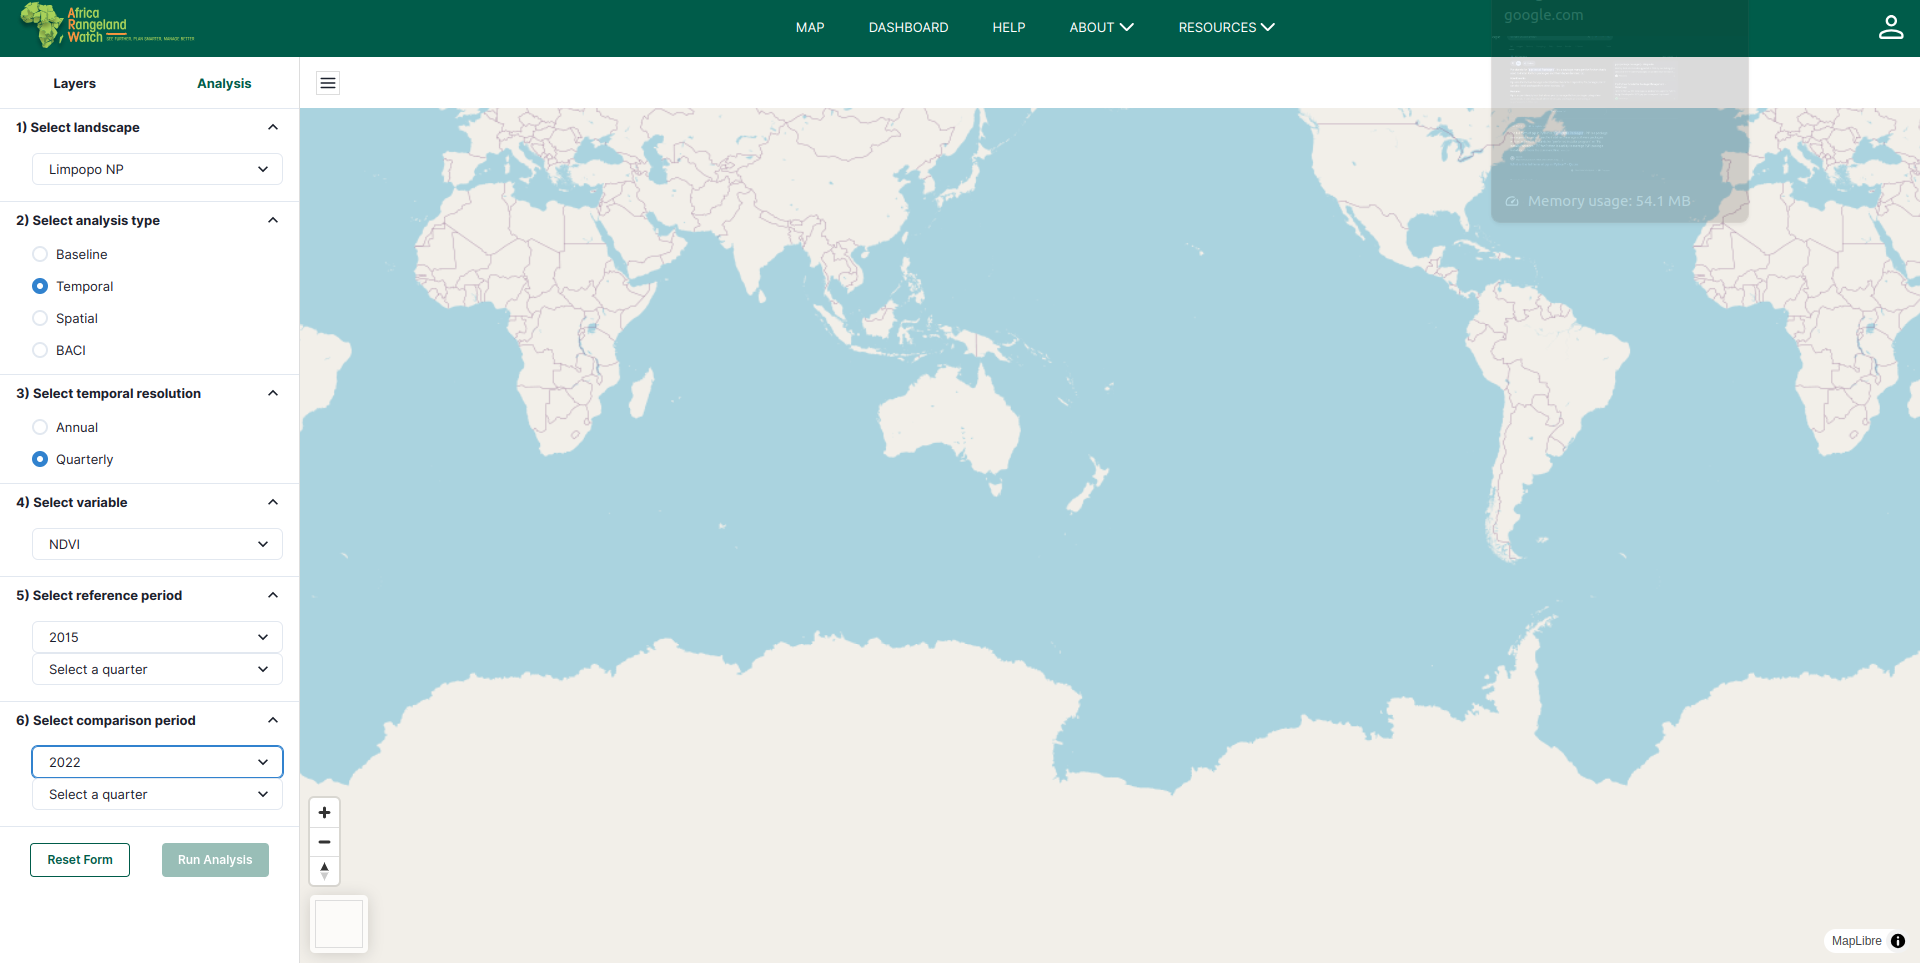
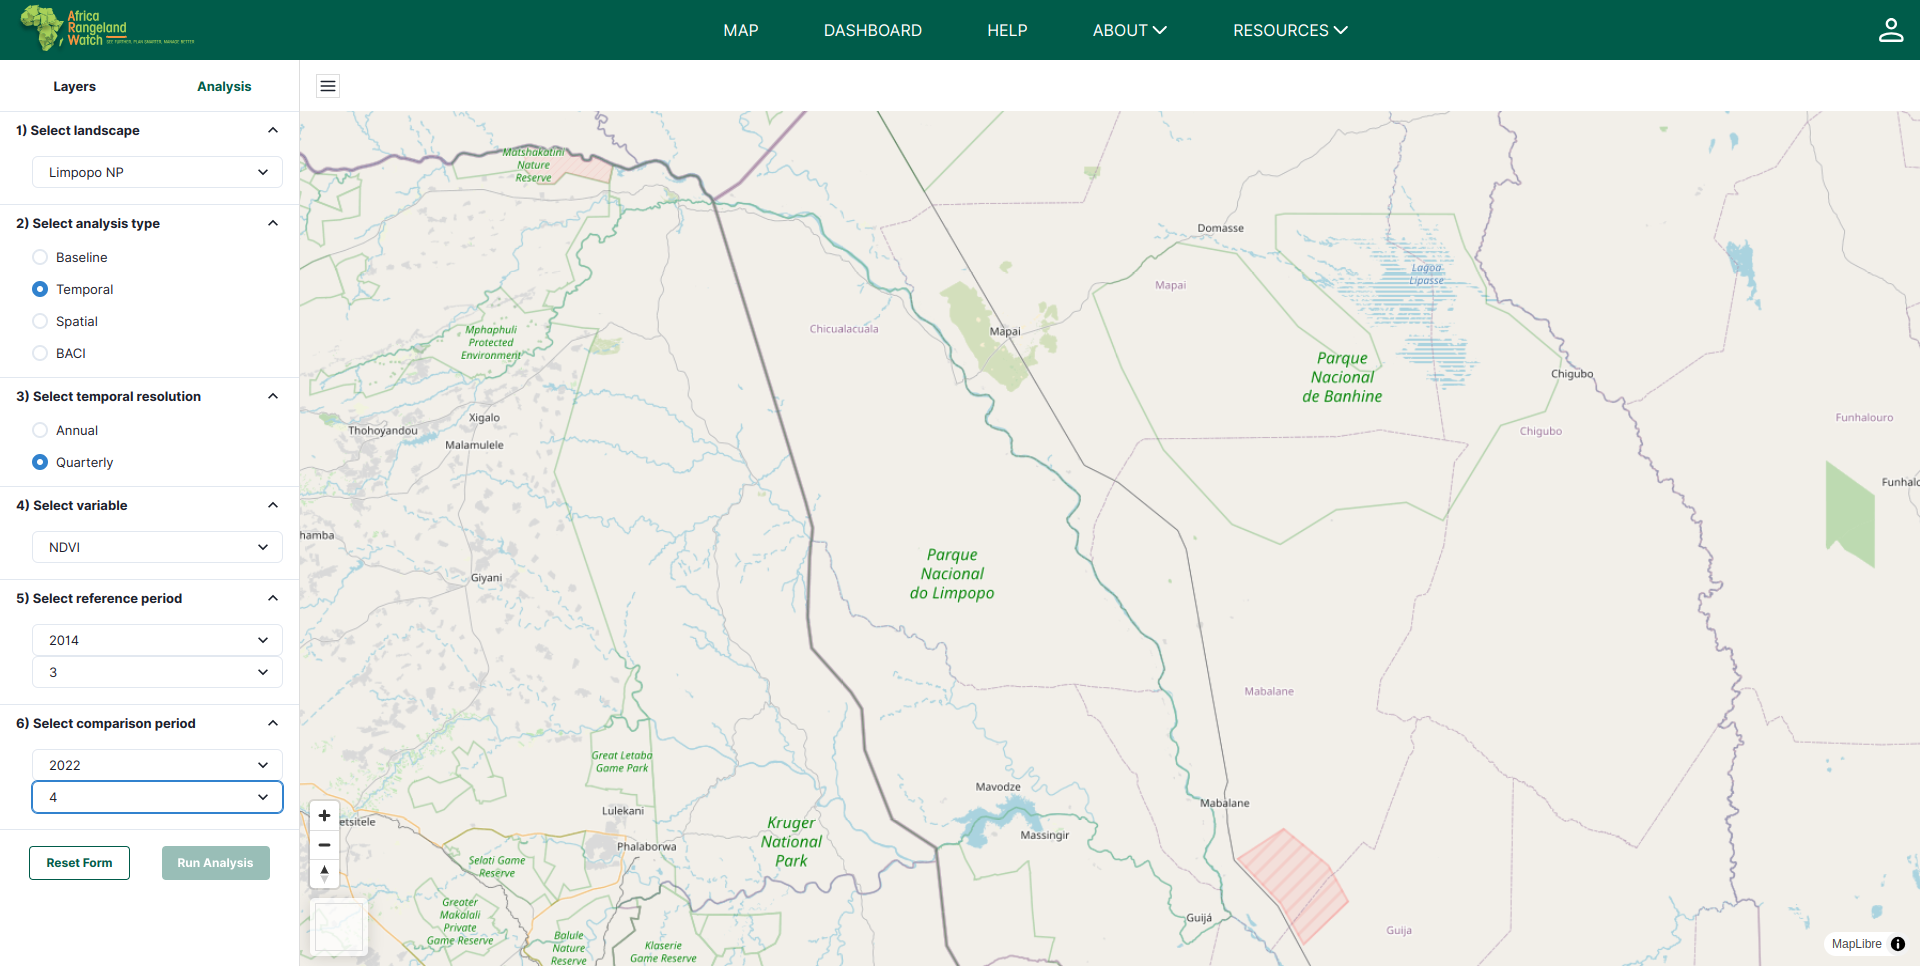
Update map and sign-up docs

diff --git a/docs/src/user/manual/map.md b/docs/src/user/manual/map.md
@@ -24,20 +24,50 @@ license: This program is free software; you can redistribute it and/or modify it
     [![Layer Section](./img/manual-map-img-3.png)](./img/manual-map-img-3.png)
     
     **1. Baseline(Average):** Baseline describes a 5-year (and in some cases longer) average of each variable. Baseline variables are visible at the whole extent of southern Africa. Users have the option to select multiple baseline years from the dropdown menu by simply checking the corresponding boxes. This allows them to include data from different years for the analysis, providing a comprehensive view of changes over time.
-    
+
+    * Apply Baseline(Average) layer by clicking on the checkbox next to Baseline(Average) in the Layers section.
+
+    * Before applying the Baseline(Average) layer.
+
+        [![Before Any Layer](./img/manual-map-img-14.png)](./img/manual-map-img-14.png)
+
+    * After applying the Baseline(Average) layer.
+
+        [![After Baseline Layer 1](./img/manual-map-img-15.png)](./img/manual-map-img-15.png)
+
+        [![After Baseline Layer 2](./img/manual-map-img-16.png)](./img/manual-map-img-16.png)
+
+    * Apply multiple Baseline(Average) layers simultaneously.
+
+        [![Apply Multiple Baseline](./img/manual-map-img-17.png)](./img/manual-map-img-17.png)
+
+        > Note: Users can apply multiple baseline layers, the map shows data for all selected layers. However, the most recently applied layer is displayed more clearly for better visibility.
+
     **2. Near-real time:** Near-real-time data provides users with the average of the last 30 days, offering insights into recent changes and trends for effective monitoring.
 
     [![Near Real Time Menu](./img/manual-map-img-4.png)](./img/manual-map-img-4.png)
 
     **1. Zoom to landscape:** Allows users to select a specific landscape from the dropdown menu. This feature enables users to focus on specific regions of interest, making it easier to analyse.
 
-    **2. Variables:** Variables are those that are used to compute temporal and spatial statistics for different areas within the app. 
+    * For example: Zooming on the `Limpopo NP` landscape.
+
+        [![Zoom to Landscape Limpopo](./img/manual-map-img-18.png)](./img/manual-map-img-18.png)
+
+    **2. Variables:** Variables are those that are used to compute temporal and spatial statistics for different areas within the app. Users can apply the variable of their choice by checking the corresponding checkbox.
+
+    > Note: Users can select multiple variables simultaneously, and the map will display data for all selected variables. However, the most recently applied variable will be highlighted for improved visibility. 
 
     * **EVI:** The enhanced vegetation index (EVI) is a spectral index calculated from satellite data in the near-infrared, red and blue wavelengths (Liu and Huete, 1995). EVI is a good proxy for vegetation vigour, greenness, biomass and cover. Relative to NDVI (see below), EVI simultaneously corrects for atmospheric and soil effects and does not saturate over high vegetation biomass. It has been used to map rangeland restoration and degradation trends over South Africa in Venter et al., 2020. We calculate baseline EVI at 250m resolution from the MOD13Q1 dataset derived from the MODIS satellites. For NRT and analysis EVI at the landscape scale, we calculate EVI from cloud-masked mosaics of Sentinel-2 imagery at 10m resolution.
 
+        [![EVI](./img/manual-map-img-19.png)](./img/manual-map-img-19.png)
+
     * **NDVI:** The normalised difference vegetation index (NDVI) is very similar to the EVI however it is more sensitive to sparse vegetation (Tucker 1979). It is therefore good for use in arid areas where one does not expect high levels of vegetation greenness. We calculate baseline EVI at 250m resolution from the MOD13Q1 dataset derived from the MODIS satellites. For NRT and analysis of EVI at the landscape scale, we calculate EVI from cloud-masked mosaics of Sentinel-2 imagery at 10m resolution.
 
+        [![NDVI](./img/manual-map-img-20.png)](./img/manual-map-img-20.png)
+
     * **Bare ground cover:** Bare ground cover refers to the proportion of the landscape where the surface is exposed without significant vegetation, such as grass or woody plants. These areas may consist of soil, sand, or rock and are important in ecological assessments as they affect processes like erosion, water infiltration, and habitat stability.
+        
+        [![Bare Ground Cover](./img/manual-map-img-21.png)](./img/manual-map-img-21.png)
 
 2. **Analysis:** This section allows users to perform analyses based on various conditions and run the analysis on the map to visualise the results.
 
@@ -94,6 +124,3 @@ license: This program is free software; you can redistribute it and/or modify it
     **4. ➕ and ➖ buttons:** These buttons allow users to zoom in and out of the map.
 
     [![Zooming Buttons](./img/manual-map-img-13.png)](./img/manual-map-img-13.png)
-
-
-            

diff --git a/docs/src/user/guide/map.md b/docs/src/user/guide/map.md
@@ -36,19 +36,49 @@ To apply layers to the map, you can choose layers from the 1⃣ `Baseline` op
 
 [![Layer Section Parts](./img/guide-map-img-4.png)](./img/guide-map-img-4.png)
 
+#### Baseline (Average)
+
+Users can select multiple variables simultaneously, and the map will display data for all selected variables. However, the most recently applied variable will be highlighted for improved visibility.
+
+* Map before applying the `Baseline (average)` layers
+
+    [![Before Applying Any Layer](./img/guide-map-img-10.png)](./img/guide-map-img-10.png)
+
+* Map after applying the `Baseline (average)` layers
+
+    [![After Applying Layer 1](./img/guide-map-img-11.png)](./img/guide-map-img-11.png)
+
+    [![After Applying Layer 2](./img/guide-map-img-12.png)](./img/guide-map-img-12.png)
+
+* Map after applying multiple `Baseline (average)` layers
+
+    [![After Applying Multiple Layer](./img/guide-map-img-13.png)](./img/guide-map-img-13.png)
+
+    > Note: You can apply multiple baseline layers, and the map will display data for all selected layers. However, the most recently applied layer will be displayed more clearly for better visibility.
+
 ### Variables
+
+Variables are those that are used to compute temporal and spatial statistics for different areas within the app. You can apply the variable of your choice by checking the corresponding checkbox.
+
+> Note: You can select multiple variables simultaneously, and the map will display data for all selected variables. However, the most recently applied variable will be highlighted for improved visibility.
 
 #### EVI 
 
 The enhanced vegetation index (EVI) is a spectral index calculated from satellite data in the near-infrared, red and blue wavelengths (Liu and Huete, 1995). EVI is a good proxy for vegetation vigour, greenness, biomass and cover. Relative to NDVI (see below), EVI simultaneously corrects for atmospheric and soil effects and does not saturate over high vegetation biomass. It has been used to map rangeland restoration and degradation trends over South Africa in Venter et al., 2020. We calculate baseline EVI at 250m resolution from the MOD13Q1 dataset derived from the MODIS satellites. For NRT and analysis EVI at the landscape scale, we calculate EVI from cloud-masked mosaics of Sentinel-2 imagery at 10m resolution.
 
+[![EVI](./img/guide-map-img-14.png)](./img/guide-map-img-14.png)
+
 #### NDVI
 
 The normalised difference vegetation index (NDVI) is very similar to the EVI however it is more sensitive to sparse vegetation (Tucker 1979). It is therefore good for use in arid areas where one does not expect high levels of vegetation greenness. We calculate baseline EVI at 250m resolution from the MOD13Q1 dataset derived from the MODIS satellites. For NRT and analysis of EVI at the landscape scale, we calculate EVI from cloud-masked mosaics of Sentinel-2 imagery at 10m resolution.
 
-#### Bare Grounds cover 
+[![NDVI](./img/guide-map-img-15.png)](./img/guide-map-img-15.png)
+
+#### Bare grounds cover 
 
 Bare ground cover refers to the proportion of the landscape where the surface is exposed without significant vegetation, such as grass or woody plants. These areas may consist of soil, sand, or rock and are important in ecological assessments as they affect processes like erosion, water infiltration, and habitat stability.
+
+[![Bare Grounds Cover](./img/guide-map-img-16.png)](./img/guide-map-img-16.png)
 
 ### Analysis?
 
@@ -66,7 +96,7 @@ Available options in `Select analysis type` are:
 
 * **Baseline:** After selecting this option you have to select the polygons from the map and then you can go for the analysis.
 
-#### How to do Temporial Analysis?
+#### How to do Temporal Analysis?
 
 * **Temporal:** After selecting the temporal you will be able to select to the following options:
     - **Select temporal resolution:** You can choose whether to use the `Annual` or `Quarterly` option based on their preference.

diff --git a/docs/src/user/manual/sign-up.md b/docs/src/user/manual/sign-up.md
@@ -14,7 +14,7 @@ license: This program is free software; you can redistribute it and/or modify it
 
 ## Introduction 
 
-The ARW allows user to create account and sign up for the platform. This user manual will guide you through the process of signing up on ARW. 
+The ARW allows user to create account and sign up for the platform. This user manual will guide users through the process of signing up on ARW. 
 
 ## Accessing the Signup page
 
@@ -22,7 +22,7 @@ The ARW allows user to create account and sign up for the platform. This user ma
 
 1. Click on the `Profile icon` in the top right corner to access the sign-up form.
 
-2. **Sign In:** You can also click on the `Sign in` to access the sign-up page.
+2. **Sign In:** Users can also click on the `Sign in` to access the sign-up page.
 
 [![Sign in page](./img/signup-img-3.png)](./img/signup-img-3.png)
 
@@ -36,16 +36,34 @@ Here are two options to sign up for a new account:
 
 1. **Form field:** ARW sign-up form allows user to create a new account by entering the necessary information.
 
-    - **Email:** Enter the email address you want to use for your ARW account.
-    - **Password:** Enter a strong password for your ARW account.
+    - **Email:** Users are required to enter a valid email address.
+    - **Password:** Users are required to enter a password that meets the password requirements.
     - **Confirm Password:** Re-enter the password to confirm it.
 
-2. **Sign-Up:** Click the `Sign Up` button to complete the sign-up process. A verification email will be sent to the address you provided.
+2. **Sign-Up:** Click on the `Sign Up` button to complete the registration process. A verification email will be sent to the email address entered by the user.
+
+    [![Verification Email](./img/signup-img-5.png)](./img/signup-img-5.png)
+
+    1 **Verify Email:** Click on the `Verify Email` button to verify the email.
+
+    2 **Link:** If anu can `Verify Email` button does not work, user can click on the link to verify the email.
+
+    * After clicking on either of the above options, the user will be redirected to the `ARW` home page.
+
+        [![Notification Toast](./img/signup-img-6.png)](./img/signup-img-6.png)
+
+        1 **Notification Toast:** A notification toast will appear, confirming that the user's `Registration completed`. After this user will be able to login in their account.
+
+    3 **Support:** If users have any questions, they can reach out to the support team by clicking on this link. This link will open a message window.
+
+    [![Support Window](./img/signup-img-7.png)](./img/signup-img-7.png)
+
+    * After providing the subject and description of the issue, users can click the `Send` button to submit or select the `X` button to close the window.
 
 3. **Other Accounts:** User can also use other accounts like google, github and apple to sign-up.
 
 4. **Back to Sign In:** Click on the `Back to Sign In` button to go back to the sign-in page.
 
-5. **x:** By clicking on this button you can close the form.
+5. **x:** By clicking on this button users can close the form.
 
 - Click on the [signing](./sign-in.md) to see the signing process.

diff --git a/docs/src/user/guide/sign-up.md b/docs/src/user/guide/sign-up.md
@@ -38,7 +38,19 @@ Here is the sign-up form.
 - **Password:** Enter your password.
 - **Confirm Password:** Re-enter your password to confirm.
 
-After filling the 1⃣ `form` click on the 2⃣ `sign-up` button.
+* After filling the 1⃣ `form`, click on the 2⃣ `sign-up` button this will send a verification link to the associated email address.
+
+* You can verify your account by clicking on the 1⃣ `Verify Email` button. If the button is not functioning, you can use the 2⃣ `link  `provided to complete the verification process. After clicking on the verify button or link you will be redirected to the `ARW` home page. You can also click on the 3⃣ `support link` if you have any issue.
+
+    [![Verification Email](./img/guide-signup-img-6.png)](./img/guide-signup-img-6.png)
+
+* After clicking on the support link, a message window will open. You will need to fill in the subject and description of the issue, then click the 1⃣ `Send` button to submit the message or you can click on the `X` mark to close the window.
+
+    [![Support Window](./img/guide-signup-img-8.png)](./img/guide-signup-img-8.png)
+
+* A toast notification will confirm your registration with the message: 1⃣ `Registration completed`.
+
+    [![Notification Toast](./img/guide-signup-img-7.png)](./img/guide-signup-img-7.png)
 
 #### Method 2: Sign-up using other accounts like google, github and apple.
 
